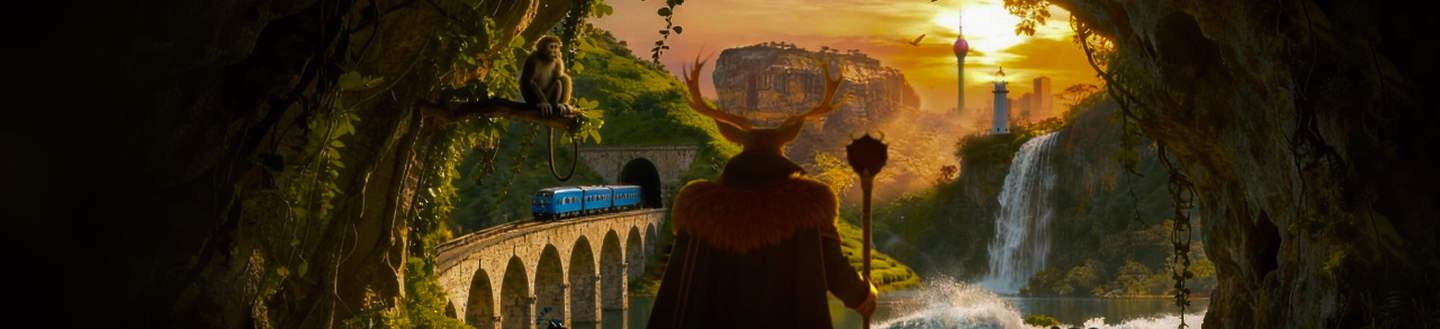
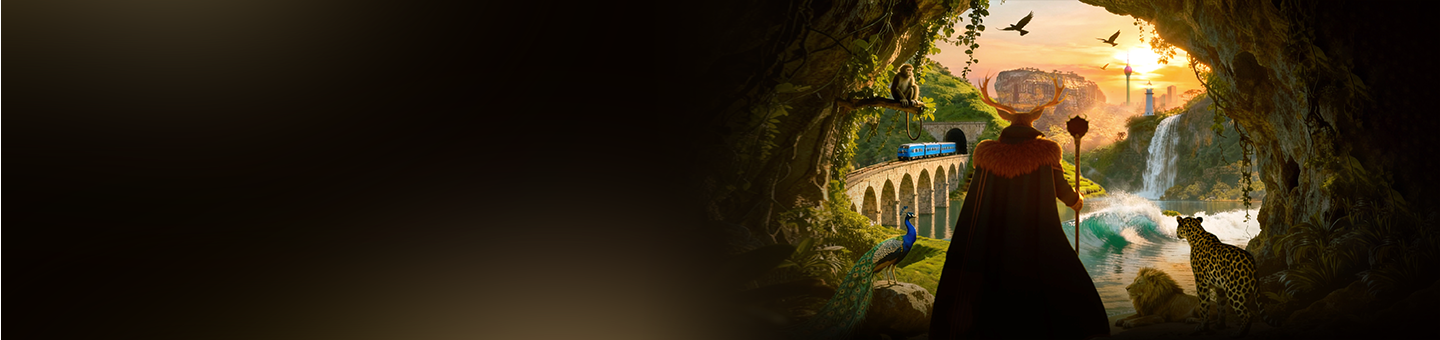
bg image slide scrol added

diff --git a/src/pages/Home.jsx b/src/pages/Home.jsx
@@ -1,4 +1,4 @@
-import { useState } from 'react';
+import { useState, useEffect } from 'react';
 import { Link } from 'react-router-dom';
 import Header from '../components/Header';
 import Footer from '../components/Footer';
@@ -6,6 +6,20 @@ import './Home.css';
 
 function Home({ cartCount }) {
   const [activeTab, setActiveTab] = useState('private');
+  const [currentSlide, setCurrentSlide] = useState(0);
+
+  const slides = [
+    '/wgm-frontend/bg_land.png',
+    '/wgm-frontend/bg_land1.png'
+  ];
+
+  useEffect(() => {
+    const interval = setInterval(() => {
+      setCurrentSlide((prev) => (prev + 1) % slides.length);
+    }, 5000); // Change slide every 5 seconds
+
+    return () => clearInterval(interval);
+  }, []);
 
   return (
     <div className="home">
@@ -13,6 +27,15 @@ function Home({ cartCount }) {
       
       {/* Hero Section */}
       <section className="hero-section">
+        <div className="hero-slider">
+          {slides.map((slide, index) => (
+            <div
+              key={index}
+              className={`hero-slide ${index === currentSlide ? 'active' : ''}`}
+              style={{ backgroundImage: `url(${slide})` }}
+            />
+          ))}
+        </div>
         <div className="hero-content">
           <h1 className="hero-title">Where Tradition Meets Technology</h1>
           <h2 className="hero-subtitle">WAIKKALA GRINDING MILLS</h2>
@@ -21,6 +44,16 @@ function Home({ cartCount }) {
             Our products are crafted from handpicked local ingredients — processed under stringent
             quality controls to preserve freshness, aroma, and authenticity.
           </p>
+        </div>
+        <div className="hero-indicators">
+          {slides.map((_, index) => (
+            <button
+              key={index}
+              className={`indicator ${index === currentSlide ? 'active' : ''}`}
+              onClick={() => setCurrentSlide(index)}
+              aria-label={`Go to slide ${index + 1}`}
+            />
+          ))}
         </div>
       </section>
 

diff --git a/src/pages/Home.css b/src/pages/Home.css
@@ -9,14 +9,81 @@
   position: relative;
   height: 70vh;
   min-height: 500px;
-  background: linear-gradient(rgba(0, 0, 0, 0.3), rgba(0, 0, 0, 0.4)),
-    url('/wgm-frontend/bg_land.png') center/cover no-repeat;
   display: flex;
   align-items: center;
   justify-content: center;
   color: white;
   text-align: left;
   padding: 2rem;
+  overflow: hidden;
+}
+
+.hero-slider {
+  position: absolute;
+  top: 0;
+  left: 0;
+  width: 100%;
+  height: 100%;
+  z-index: 0;
+}
+
+.hero-slide {
+  position: absolute;
+  top: 0;
+  left: 0;
+  width: 100%;
+  height: 100%;
+  background-size: cover;
+  background-position: center;
+  opacity: 0;
+  transition: opacity 1.5s ease-in-out;
+}
+
+.hero-slide::before {
+  content: '';
+  position: absolute;
+  top: 0;
+  left: 0;
+  width: 100%;
+  height: 100%;
+  background: linear-gradient(rgba(0, 0, 0, 0.3), rgba(0, 0, 0, 0.4));
+  z-index: 1;
+}
+
+.hero-slide.active {
+  opacity: 1;
+}
+
+.hero-indicators {
+  position: absolute;
+  bottom: 2rem;
+  left: 50%;
+  transform: translateX(-50%);
+  display: flex;
+  gap: 0.8rem;
+  z-index: 2;
+}
+
+.indicator {
+  width: 12px;
+  height: 12px;
+  border-radius: 50%;
+  background: rgba(255, 255, 255, 0.5);
+  border: 2px solid rgba(255, 255, 255, 0.8);
+  cursor: pointer;
+  transition: all 0.3s ease;
+  padding: 0;
+}
+
+.indicator:hover {
+  background: rgba(255, 255, 255, 0.7);
+  transform: scale(1.2);
+}
+
+.indicator.active {
+  background: #d4a574;
+  border-color: #d4a574;
+  transform: scale(1.3);
 }
 
 .hero-content {
